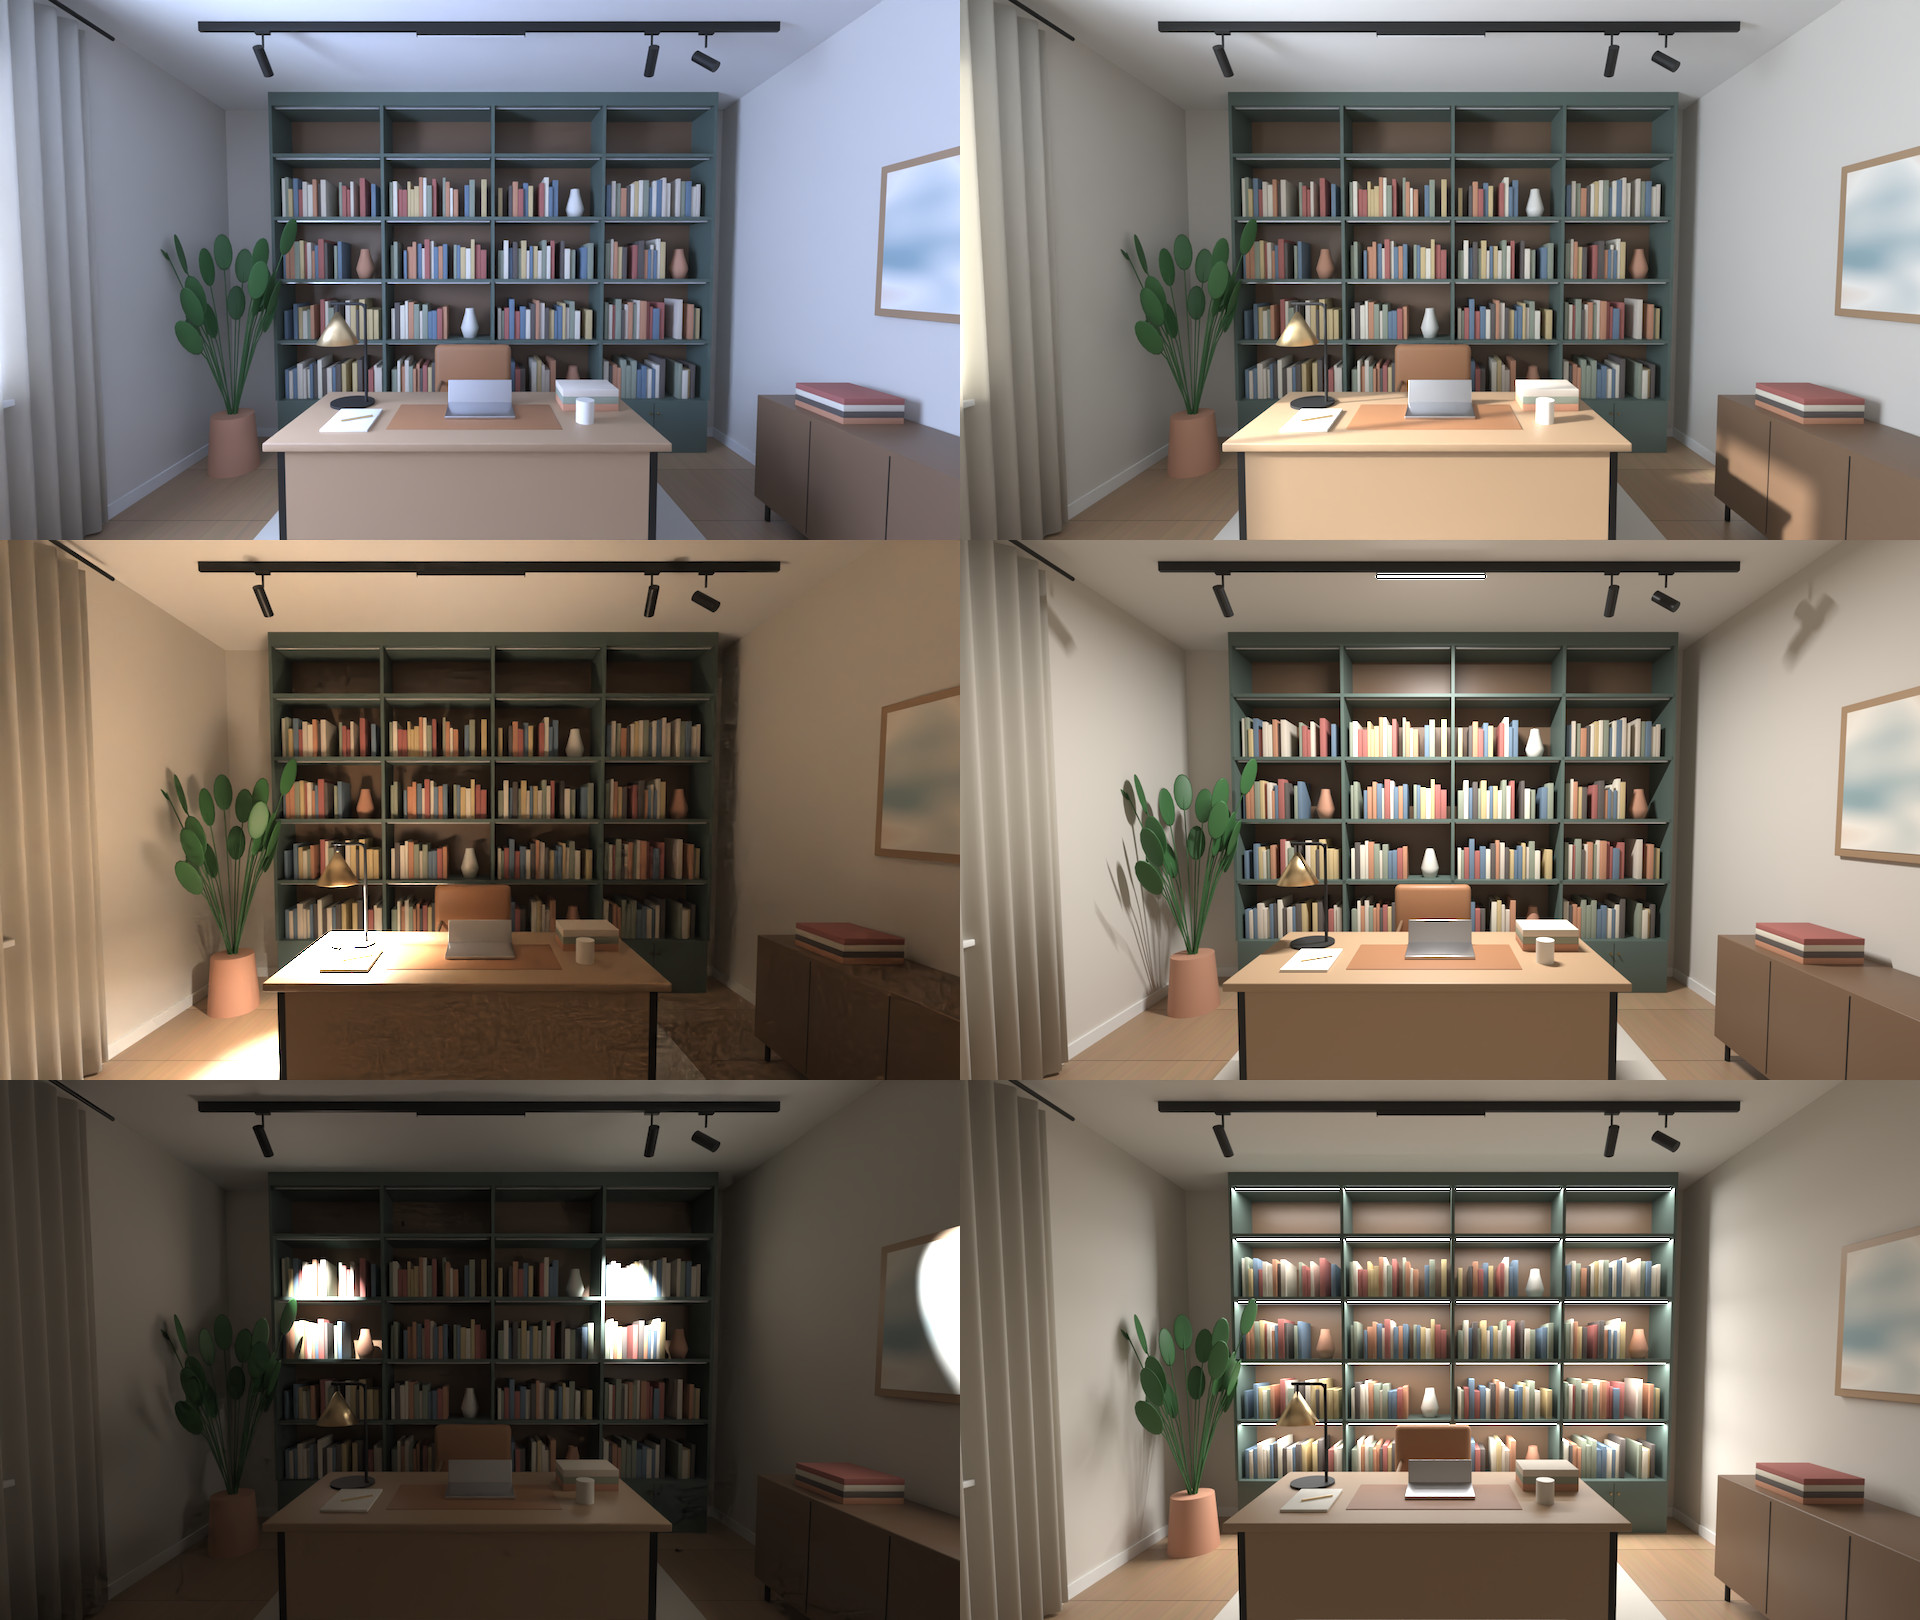
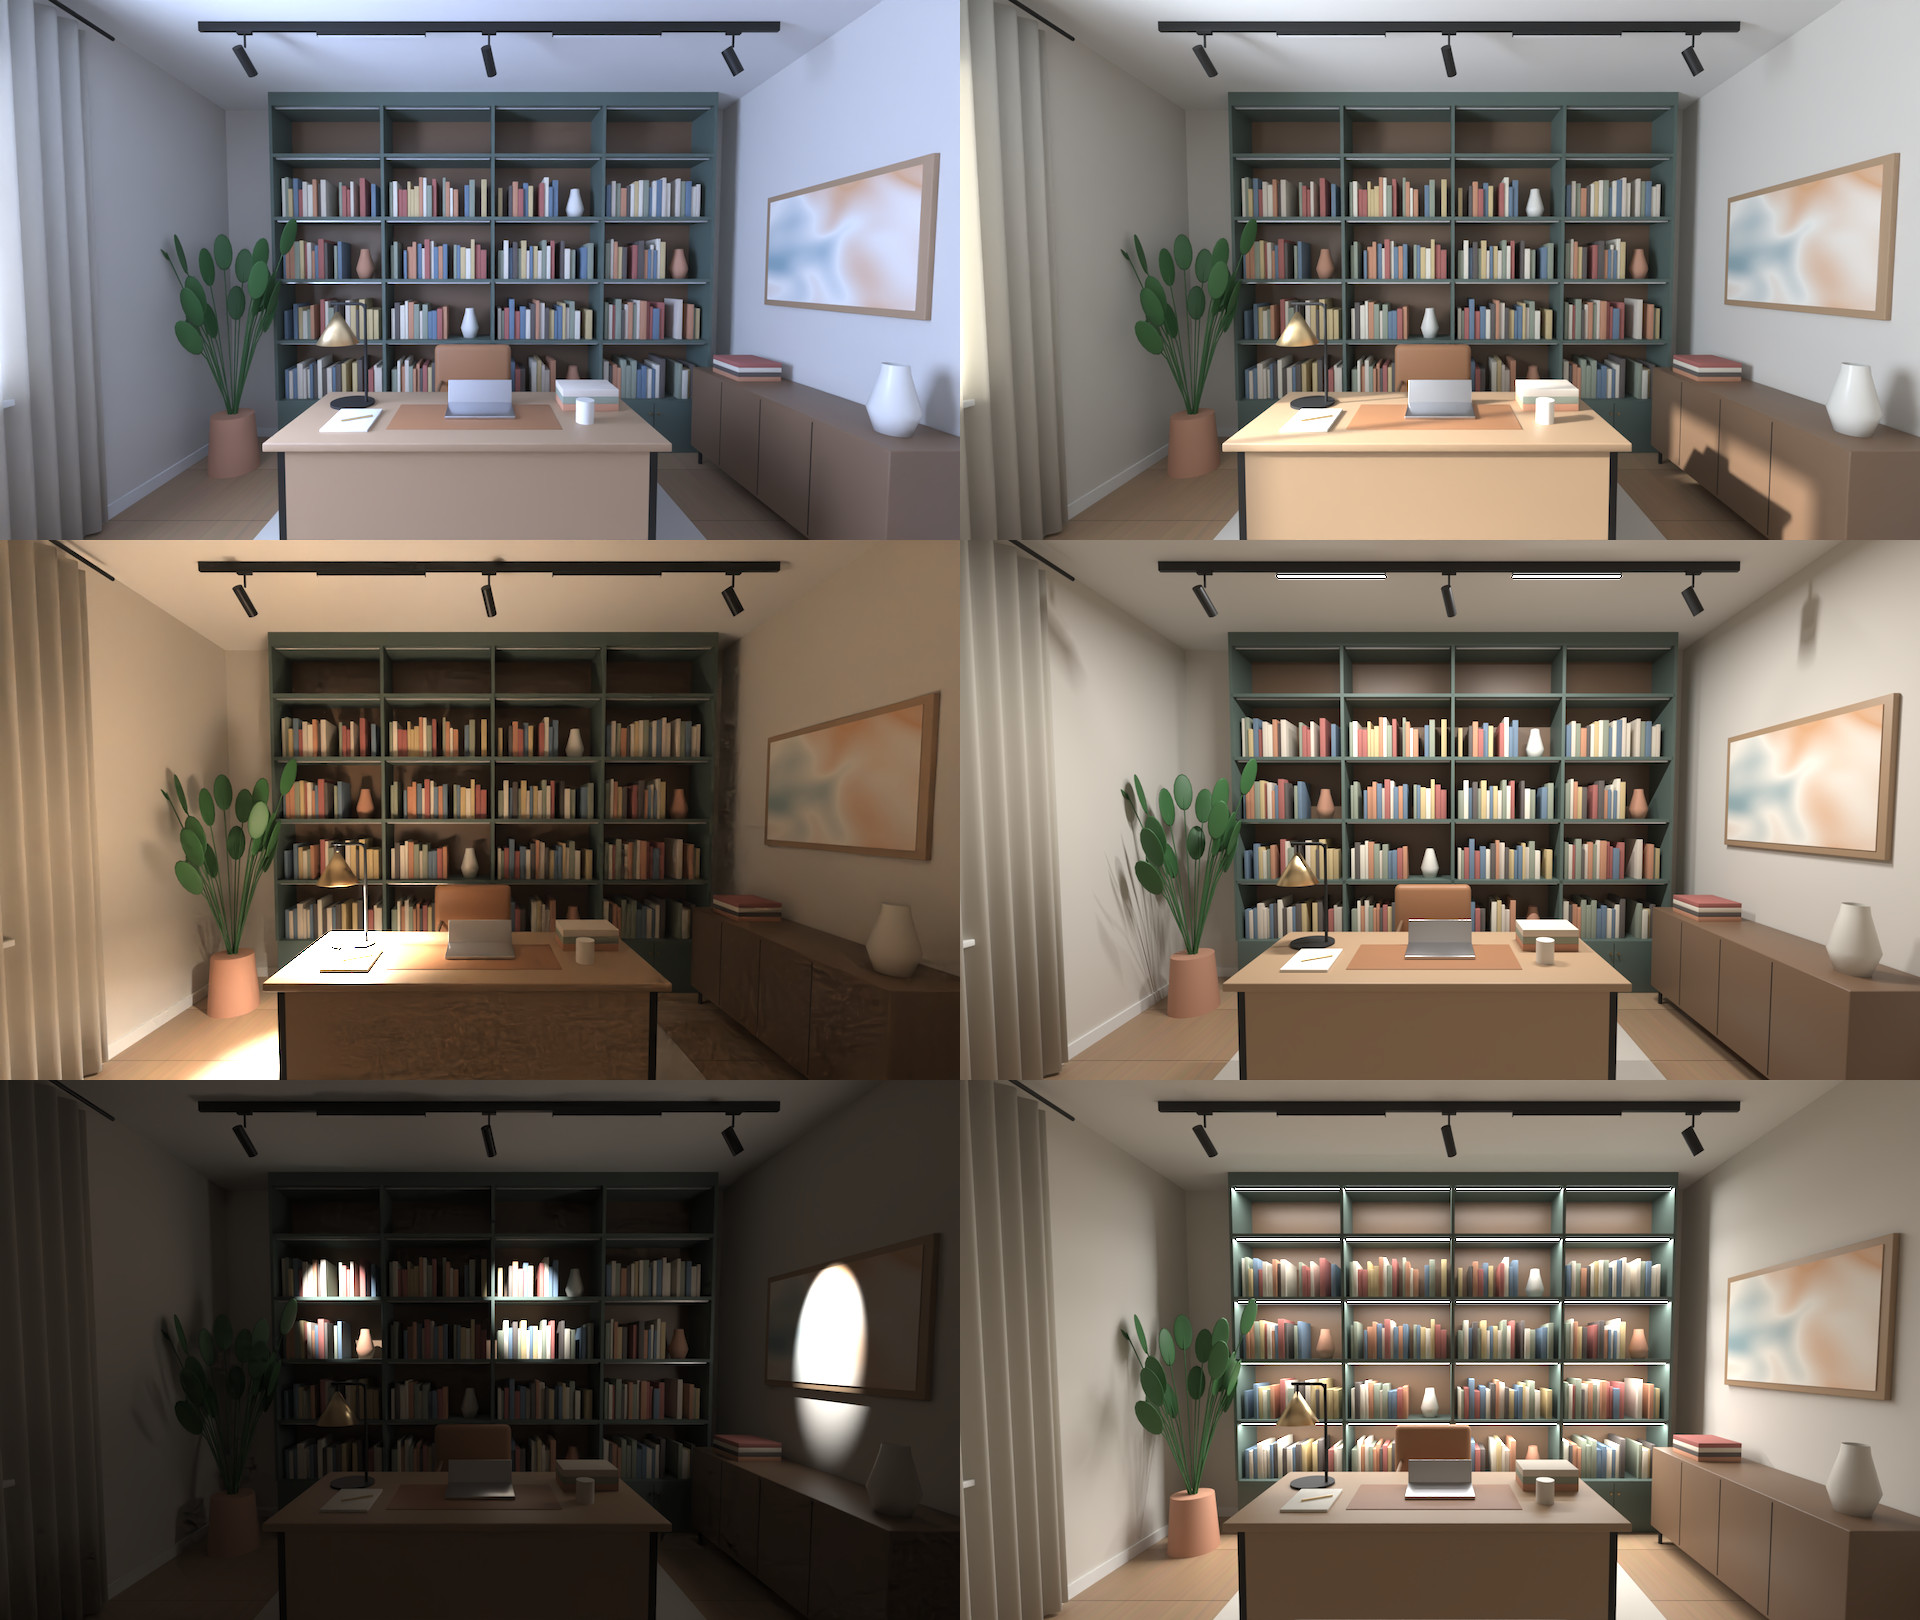
Кабинет: картина ближе к стеллажу, трек спот-линейный-спот-линейный-спот; подзаголовок «Ваши комнаты…»

diff --git a/rooms/rooms.js b/rooms/rooms.js
@@ -16,7 +16,7 @@ function k2rgb(K){const t=K/100;let r,g,b;
 
 function rooms(){
   const host = document.getElementById('ml-rooms'); if (!host) return;
-  host.innerHTML = "<div class=\"ml-wrap\">\n  <div class=\"ml-hd\"><h2>Включите свет в комнате</h2>\n  <p>Гостиная, кухня и спальня со светильниками из нашего каталога. Включайте каждый светильник, меняйте яркость и цвет света от тёплого 2700 K до холодного 6500 K.</p></div>\n  <div class=\"lr\" id=\"lr\" aria-label=\"Живая комната: интерактивный свет\">\n    <div class=\"lr-view\">\n      <div class=\"lr-frame\" id=\"lrFrame\">\n        <canvas id=\"lrCv\" aria-label=\"Комната с выбранным светом\"></canvas>\n        <div class=\"lr-loading\" id=\"lrLoading\">Загружаю комнату…</div>\n        <div class=\"lr-tag\" id=\"lrTag\"><b>Вечер</b> · 2700 K</div>\n      </div>\n      <div class=\"lr-k\">\n        <div class=\"lr-krow\"><div class=\"lr-kval\" id=\"kval\">2700 K<small>тёплый</small></div><div class=\"lr-chips\" id=\"lrK\"></div></div>\n        <input id=\"mlK\" class=\"kt\" type=\"range\" min=\"2700\" max=\"6500\" step=\"50\" value=\"2700\" aria-label=\"Цветовая температура, К\">\n        <div class=\"lr-scale\"><span>2700 K</span><span>4000 K</span><span>6500 K</span></div>\n      </div>\n    </div>\n    <div class=\"lr-panel\">\n      <div class=\"lr-rooms\" id=\"lrRooms\" role=\"tablist\" aria-label=\"Комната\"></div>\n      <div class=\"lr-seg\" role=\"radiogroup\" aria-label=\"Время суток\">\n        <button type=\"button\" id=\"lrNight\" role=\"radio\" class=\"on\" aria-checked=\"true\">Вечер</button>\n        <button type=\"button\" id=\"lrDay\" role=\"radio\" aria-checked=\"false\">День</button>\n      </div>\n      <div class=\"lr-lbl\">Сценарии</div>\n      <div class=\"lr-chips lr-scenes\" id=\"lrScenes\"></div>\n      <div class=\"lr-lbl\">Светильники</div>\n      <div class=\"lr-list\" id=\"lrList\"></div>\n    </div>\n  </div>\n  <p class=\"lr-note\" id=\"lrNote\"></p>\n  <div class=\"ml-cta\"><a class=\"ml-btn\" href=\"https://wa.me/996998899675?text=%D0%97%D0%B4%D1%80%D0%B0%D0%B2%D1%81%D1%82%D0%B2%D1%83%D0%B9%D1%82%D0%B5!%20%D0%9F%D0%BE%D0%BC%D0%BE%D0%B3%D0%B8%D1%82%D0%B5%20%D0%BF%D0%BE%D0%B4%D0%BE%D0%B1%D1%80%D0%B0%D1%82%D1%8C%20%D1%81%D0%B2%D0%B5%D1%82%20%D0%B4%D0%BB%D1%8F%20%D0%BA%D0%BE%D0%BC%D0%BD%D0%B0%D1%82%D1%8B\" target=\"_blank\" rel=\"noopener\">Подобрать свет для моей комнаты</a></div>\n</div>";
+  host.innerHTML = "<div class=\"ml-wrap\">\n  <div class=\"ml-hd\"><h2>Включите свет в комнате</h2>\n  <p>Ваши комнаты со светильниками из нашего каталога. Включайте каждый светильник, меняйте яркость и цвет света от тёплого 2700 K до холодного 6500 K.</p></div>\n  <div class=\"lr\" id=\"lr\" aria-label=\"Живая комната: интерактивный свет\">\n    <div class=\"lr-view\">\n      <div class=\"lr-frame\" id=\"lrFrame\">\n        <canvas id=\"lrCv\" aria-label=\"Комната с выбранным светом\"></canvas>\n        <div class=\"lr-loading\" id=\"lrLoading\">Загружаю комнату…</div>\n        <div class=\"lr-tag\" id=\"lrTag\"><b>Вечер</b> · 2700 K</div>\n      </div>\n      <div class=\"lr-k\">\n        <div class=\"lr-krow\"><div class=\"lr-kval\" id=\"kval\">2700 K<small>тёплый</small></div><div class=\"lr-chips\" id=\"lrK\"></div></div>\n        <input id=\"mlK\" class=\"kt\" type=\"range\" min=\"2700\" max=\"6500\" step=\"50\" value=\"2700\" aria-label=\"Цветовая температура, К\">\n        <div class=\"lr-scale\"><span>2700 K</span><span>4000 K</span><span>6500 K</span></div>\n      </div>\n    </div>\n    <div class=\"lr-panel\">\n      <div class=\"lr-rooms\" id=\"lrRooms\" role=\"tablist\" aria-label=\"Комната\"></div>\n      <div class=\"lr-seg\" role=\"radiogroup\" aria-label=\"Время суток\">\n        <button type=\"button\" id=\"lrNight\" role=\"radio\" class=\"on\" aria-checked=\"true\">Вечер</button>\n        <button type=\"button\" id=\"lrDay\" role=\"radio\" aria-checked=\"false\">День</button>\n      </div>\n      <div class=\"lr-lbl\">Сценарии</div>\n      <div class=\"lr-chips lr-scenes\" id=\"lrScenes\"></div>\n      <div class=\"lr-lbl\">Светильники</div>\n      <div class=\"lr-list\" id=\"lrList\"></div>\n    </div>\n  </div>\n  <p class=\"lr-note\" id=\"lrNote\"></p>\n  <div class=\"ml-cta\"><a class=\"ml-btn\" href=\"https://wa.me/996998899675?text=%D0%97%D0%B4%D1%80%D0%B0%D0%B2%D1%81%D1%82%D0%B2%D1%83%D0%B9%D1%82%D0%B5!%20%D0%9F%D0%BE%D0%BC%D0%BE%D0%B3%D0%B8%D1%82%D0%B5%20%D0%BF%D0%BE%D0%B4%D0%BE%D0%B1%D1%80%D0%B0%D1%82%D1%8C%20%D1%81%D0%B2%D0%B5%D1%82%20%D0%B4%D0%BB%D1%8F%20%D0%BA%D0%BE%D0%BC%D0%BD%D0%B0%D1%82%D1%8B\" target=\"_blank\" rel=\"noopener\">Подобрать свет для моей комнаты</a></div>\n</div>";
 // ---------- Живая комната (relighting: отрендеренные проходы складываются в WebGL). Три комнаты.
 (() => {
 const ROOMS = {
@@ -97,8 +97,8 @@ const ROOMS = {
     note:'Настольная лампа EGLO Narices, магнитная система LUMINAIR и LED-подсветка полок стеллажа. Всё есть в каталоге.',
     lights:[
       {id:'table',  name:'Лампа EGLO Narices',      prod:'Латунный конус, E27 · 8 500 сом', hs:[[.352,.61]]},
-      {id:'linear', name:'Линейный модуль над столом', prod:'LUMINAIR 24 Вт · 2 200 сом', hs:[[.4906,.0689]]},
-      {id:'spots',  name:'Трековые споты ×3',       prod:'LUMINAIR 15 Вт · 1 800 сом', hs:[[.7468,.1253],[.2805,.1407],[.6757,.1405]]},
+      {id:'linear', name:'Линейные модули ×2', prod:'LUMINAIR 24 Вт · 2 200 сом', hs:[[.3869,.0689],[.632,.0689]]},
+      {id:'spots',  name:'Трековые споты ×3',       prod:'LUMINAIR 15 Вт · 1 800 сом', hs:[[.2644,.1404],[.5128,.1399],[.7702,.1376]]},
       {id:'shelf',  name:'Подсветка стеллажа',      prod:'LED-лента в профиле под полками', hs:[[.4567,.2962],[.6833,.5256]]},
     ],
     scenes:[
